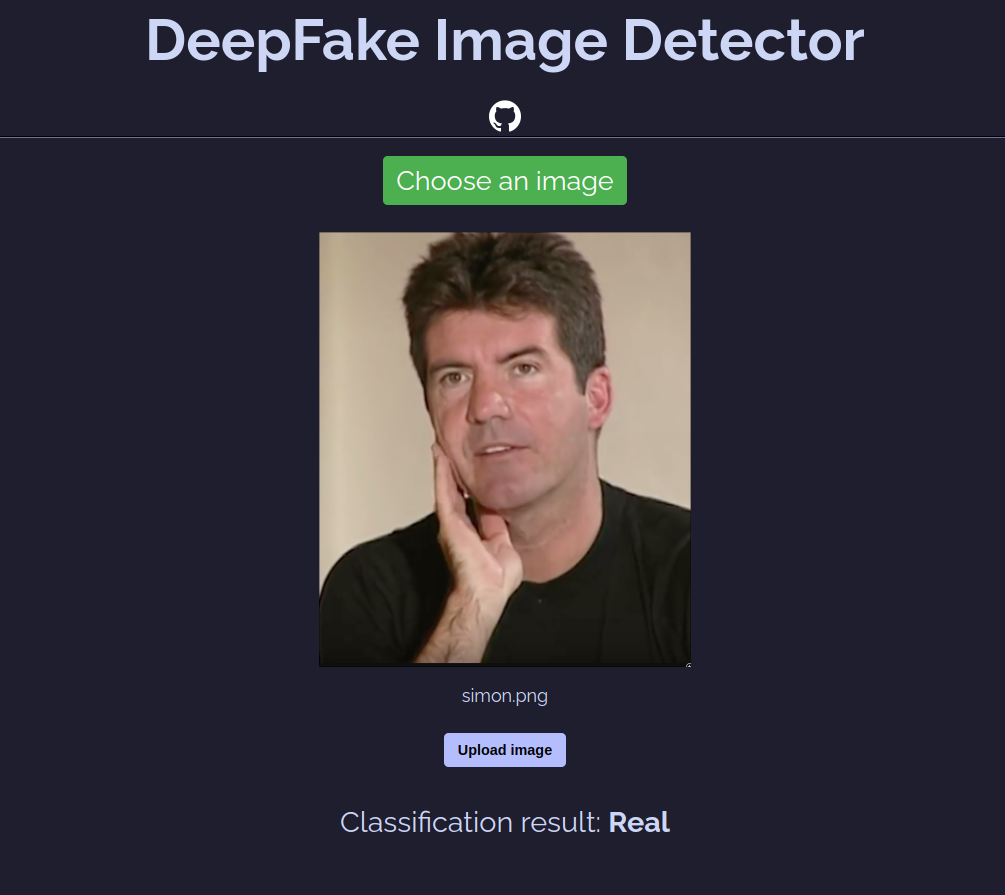
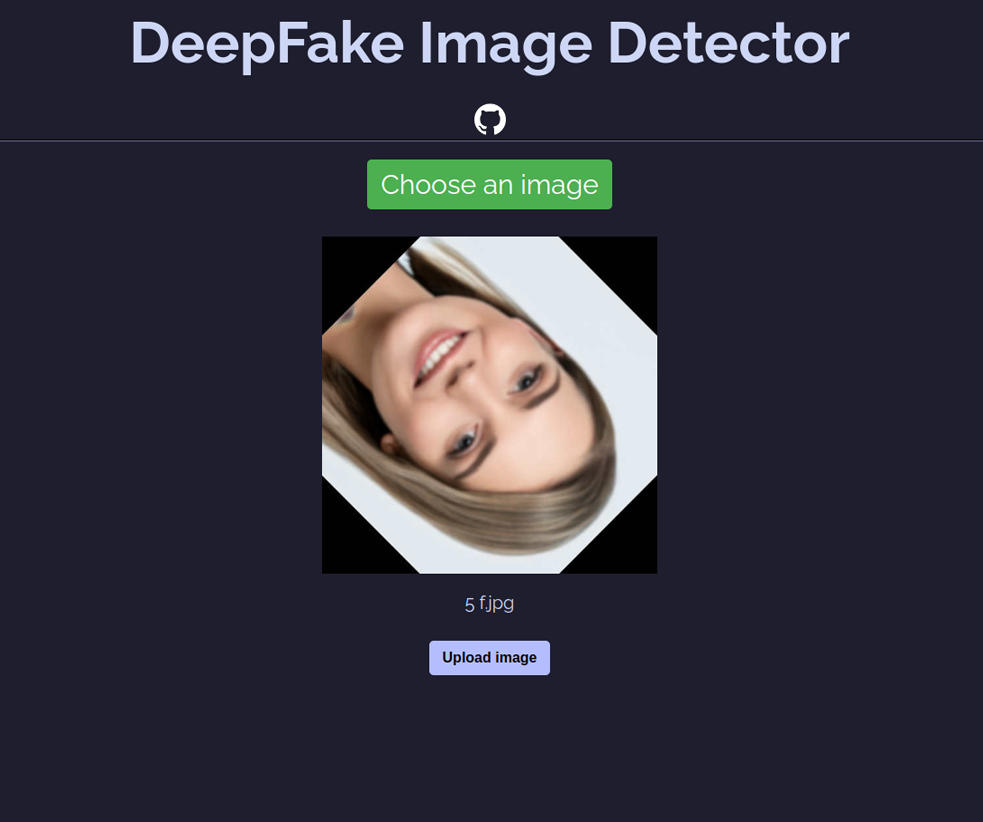
updatev1

Changed region(s): [[0.0, 0.0, 1.0, 0.882], [0.3357, 0.9124, 0.6714, 0.9428]]

diff --git a/chapter/chapter_2.tex b/chapter/chapter_2.tex
@@ -2,7 +2,7 @@
 Deepfakes, which involve sharing facial images without permission, are often carried out without the knowledge or consent of individuals such as celebrities or politicians. At first, swapping of face image was done in the photo of Abraham Lincoln(Badale et al., 2018)\cite{badale2018deep}. Yang, Li \& Lyu (2019)\cite{yang2019exposing} have proposed a model to detect deep fake using head poses inconsistency. Yadav \& Salmani (2019)\cite{yadav2019deepfake} have described the working principle of the deep fake techniques along with swapping of face images in a high precision value.
 
 \section{Deepfake Generation Techniques of Faces}
-StarGAN \cite{choi2018stargan}, proposed by Choi et al., is a method capable of performing imageto-image translations on multiple domains (such as change hair color, change gender,
+StarGAN \cite{choi2018stargan}, proposed by Choi et al., is a method capable of performing image-to-image translations on multiple domains (such as change hair color, change gender,
 etc.) using a single model. Trained on two different types of face datasets—CelebA \cite{7410782}
 containing 40 labels related to facial attributes such as hair color, gender and age, and
 RaFD dataset \cite{cho2019imagetoimage} containing 8 labels corresponding to different types of facial expressions
@@ -18,7 +18,7 @@ StyleGAN. \cite{Giudice_2021}
 \section{Deepfake Detection Techniques}
 HFM images dataset and soft computing neural network models (SFFN) with an effective facial manipulating detection process were presented by Lee et al. (2021)\cite{lee2021detecting}. The SFFN model is capable of identifying fake images by focusing on altered facial landmarks, using only RGB information and no metadata. The method showed improved performance in AUC, with a 3.99\% F1-score and 2.91\% AUC for detecting handcrafted fake facial images, and 93.99\% accuracy for detecting small GANs-generated fake images.
 
-Guo et al. (2021)\cite{guo2021fake} developed an AMTEN for image preprocessing. This component uses a convolution layer to retrieve photo manipulation traces, with weights adjusted during backpropagation for optimization. They also created a false face detector, AMTENnet, by combining AMTEN with a CNN. The manipulation traces from AMTEN are processed through the CNN to develop discriminative characteristics. Tests showed that AMTENnet achieved higher detection accuracy and generalization capabilities, outperforming other methods on the Hybrid Fake Face (HFF) dataset by 7.61\%.
+Guo et al. (2021)\cite{guo2021fake} developed an AMTEN for image preprocessing. This component uses a convolution layer to retrieve photo manipulation traces, with weights adjusted during backpropagation for optimization. They also created a false face detector, AMTENnet, by combining AMTEN with a CNN. The manipulation traces from AMTEN are processed through the CNN to develop discriminative characteristics. Tests showed that AMTENnet achieved higher detection accuracy and generalization capabilities, outperforming other methods on the Hybrid Fake Face (HFF) dataset\cite{AMTEN} by 7.61\%.
 
 Guarnera et al. (2020)\cite{guarnera2020fighting} completed a study on deepfake image analysis using an expectation-maximization technique to extract Convolutional Traces (CTs), a unique fingerprint that can identify if a photo is a deepfake and the GANs architecture that created it. The CT is resistant to attacks and independent of high-level picture concepts. The study found that a simple and fast-to-compute method could outperform more complex ones. By rotating input images to find the most significant direction, performance could be improved. The method achieved an overall classification accuracy of over 98\% on deepfakes from 10 different GAN architectures. It also performed well in a real-world setting, achieving 93\% accuracy on deepfakes created by the FACE application.
 
@@ -28,30 +28,121 @@ J. Yang et al. (2021)\cite{yang2021detecting} developed a method to detect the s
 
 Hsu et al. (2020) \cite{hung2021multi} developed a method to recognize fake images created by advanced GANs. Their approach involves a fake feature network-based paired learning system that can learn mid and high-level false features by combining cross-layer feature representations. They modified a reduced DenseNet into a two-stream network structure that can handle paired data. This network is trained to distinguish between the features of real and fake photos. A classification layer is added to determine if the input image is real or fake. Their system allows for learning of fake features, enabling the detector to recognize fake images created by a new GAN not included in the training phase. The results demonstrated that their method outperformed other techniques in terms of accuracy and recall rates.
 
+\newpage
+\subsection{Deepfake Detection and Reconstruction Challenge Ranking}
+Most researchers participated in the Deepfake Images Detection and Reconstruction
+Challenge. Only seven teams submitted a solution and some of them are reported
+in this paper (only the solutions with classification accuracy values above 60\% and only
+all the teams that actively participated in the ICIAP conference). Table 2.1 summarizes the
+classification accuracy scores of the submitted solutions. The winning team
+was VisionLabs, a team composed of Nikita Koritsky and Aleksandr Parkin, who employed
+an EfficientNet architecture \cite{pmlr-v97-tan19a} (specifically EfficientNet B3) with pre-trained weights on
+ImageNet. During training, various preprocessing such as scaling, JPEG compression from
+45 to 100 with probability 0.5, hue saturation, gray transformation with probability 0.2,
+and many others were applied. To increase the robustness of CNN against various types
+of corruption, this team used rather severe increments, including JPEG compression and
+Gaussian blurring with large kernels. Pre-trained torchvision models were used in the
+experiments and tuned for 15 epochs with the Radam optimizer\cite{liu2021variance}. The learning rate was
+set to 0.001 and the batch size was set to 32. In the inference step, a threshold obtained on
+the validation set was used to binarize the obtained values. An Equal Error Rate (resulting
+in 0.26) was used to calculate the threshold. \cite{jimaging8100263}
+\vspace{1cm}
+\begin{table}[ht]
+\centering
+\begin{tabular}{|c|l|c|}
+\hline
+\textbf{Rank} & \textbf{Team Name} & \textbf{Accuracy (\%)} \\
+\hline
+1 & VisionLabs & 93.61 \\
+2 & DC-GAN (Amped Team) & 90.05 \\
+3 & Team Nirma & 75.38 \\
+4 & AIMH Lab & 72.62 \\
+5 & PRA Lab—Div. Biometria & 63.97 \\
+6 & Team Wolfpack & 40.61 \\
+7 & SolveKaro & 36.85 \\
+\hline
+\end{tabular}
+\caption{Accuracy Rankings}
+\label{tab:accuracy-rankings}
+\end{table} \\\\
+Table 2.2 shows in detail the results obtained by the participants.
+Precision, Recall and F1-score values for each class are shown.
+
+\begin{table}[h]
+    \centering
+    \label{tab:comparison}
+    \begin{tabular}{|l|c|c|c|}
+    \hline
+     & \textbf{Precision} & \textbf{Recall} & \textbf{F1-score} \\ \hline
+    \textbf{VisionLabs} &  &  &  \\ \hline
+    Real & 0.89 & 0.88 & 0.89 \\ 
+    Deepfake & 0.95 & 0.96 & 0.96 \\ 
+    Accuracy & 0.94 & & \\ 
+    Macro avg & 0.92 & 0.92 & 0.92 \\ 
+    Weighted avg & 0.94 & 0.94 & 0.94 \\ \hline
+    \textbf{DC-GAN (Amped Team)} & & & \\ \hline
+    Real & 0.86 & 0.78 & 0.82 \\ 
+    Deepfake & 0.92 & 0.95 & 0.93 \\ 
+    Accuracy & 0.90 & & \\ 
+    Macro avg & 0.89 & 0.87 & 0.88 \\ 
+    Weighted avg & 0.90 & 0.90 & 0.90 \\ \hline
+    \textbf{Team Nirma} & & & \\ \hline
+    Real & 0.55 & 0.80 & 0.65 \\ 
+    Deepfake & 0.90 & 0.74 & 0.81 \\ 
+    Accuracy & 0.75 & & \\ 
+    Macro avg & 0.72 & 0.77 & 0.73 \\ 
+    Weighted avg & 0.80 & 0.75 & 0.76 \\ \hline
+    \textbf{AIMH Lab} & & & \\ \hline
+    Real & 0.52 & 0.49 & 0.51 \\ 
+    Deepfake & 0.80 & 0.82 & 0.81 \\ 
+    Accuracy & 0.73 & & \\ 
+    Macro avg & 0.66 & 0.66 & 0.66 \\ 
+    Weighted avg & 0.72 & 0.73 & 0.72 \\ \hline
+    \textbf{PRA Lab—Div. Biometria} & & & \\ \hline
+    Real & 0.43 & 0.76 & 0.55 \\ 
+    Deepfake & 0.86 & 0.59 & 0.70 \\ 
+    Accuracy & 0.64 & & \\ 
+    Macro avg & 0.64 & 0.68 & 0.62 \\ 
+    Weighted avg & 0.74 & 0.64 & 0.66 \\ \hline
+    \textbf{Team Wolfpack} & & & \\ \hline
+    Real & 0.05 & 0.06 & 0.05 \\ 
+    Deepfake & 0.59 & 0.55 & 0.57 \\ 
+    Accuracy & 0.41 & & \\ 
+    Macro avg & 0.32 & 0.30 & 0.31 \\ 
+    Weighted avg & 0.44 & 0.41 & 0.42 \\ \hline
+    \textbf{SolveKaro} & & & \\ \hline
+    Real & 0.17 & 0.31 & 0.22 \\ 
+    Deepfake & 0.59 & 0.39 & 0.47 \\ 
+    Accuracy & 0.37 & & \\ 
+    Macro avg & 0.38 & 0.35 & 0.34 \\ 
+    Weighted avg & 0.47 & 0.37 & 0.40 \\ \hline
+    \end{tabular}
+    \caption{Comparison of Performance Metrics of Each Team}
+\end{table}
 %  The risks inherent in deepfakes, including defamation of character, potential harm to individuals, and the spread of fake news throughout society, highlight the importance of addressing these challenges.
  
 %  Existing approaches suffer from problems such as inefficiency in deepfake image detection, high error rates, long computation times, and data access inaccuracies.
 %  Our work focuses on improving efficiency through a different approach to using ResNet architecture for deepfake detection.
-There have been many approaches to detect image deepfake. Figure 1 (Heidari et al., 2023) \cite{heidari2023deepfake}  shows some of the advancements in the Image Deepfake techniques.
+% There have been many approaches to detect image deepfake. Figure 1 (Heidari et al., 2023) \cite{heidari2023deepfake}  shows some of the advancements in the Image Deepfake techniques.
 
-\begin{table}
-\caption{Image Deepfake Techniques}
-\begin{tabularx}{\textwidth}{|X|X|X|X|X|}
-  \hline
-  \textbf{Authors} & \textbf{Main Idea} & \textbf{Advantages} & \textbf{Dataset} & \textbf{Method} \\ \hline
-  Zhang Zhao, and Li (2020) \cite{zhang2020novel} & Using a binary classifier trained by a CNN & The achieved accuracy was 97\%, The AUC stood at 97.6\% & Milborrow University of Cape Town dataset & CNN \\ \hline
-  Lee et al. (2021) \cite{lee2021detecting}& Suggesting an approach with an effective end-to-end false face detection pipeline  that can identify fake face pictures. & Obtaining 72.52\% AUC, Obtaining 93.99\% accuracy on difficult low-resolution pictures & HFM dataset & GAN \\ \hline
-  Guo et al. (2021) \cite{guo2021fake}& Providing a preprocessing module named AMTEN for face image forensics & AMTENnet achieves an average accuracy of up to 98.52\%, Achieves desirable preprocessing & HEF dataset & CNN \\ \hline
-  Guarnera et al. (2020) \cite{guarnera2020fighting} & Presenting an expectation-maximization method trained to identify and extract a fingerprint & Obtaining a 93\% accuracy rate, In a real-world scenario, efficacy is demonstrated, High robustness & The FACEAPP, a dataset, and CelebA images & Expectation-maximization + CNN \\ \hline
-  I.-J. Yu et al. (2020) \cite{yu2020manipulation} & Presenting the MCNet to utilize multi-domain spatial, frequency, and compression domain characteristics & High robustness, High accuracy & ALASKA dataset & CNN \\ \hline
-\end{tabularx}
-\end{table}
+% \begin{table}
+% \caption{Image Deepfake Techniques}
+% \begin{tabularx}{\textwidth}{|X|X|X|X|X|}
+%   \hline
+%   \textbf{Authors} & \textbf{Main Idea} & \textbf{Advantages} & \textbf{Dataset} & \textbf{Method} \\ \hline
+%   Zhang Zhao, and Li (2020) \cite{zhang2020novel} & Using a binary classifier trained by a CNN & The achieved accuracy was 97\%, The AUC stood at 97.6\% & Milborrow University of Cape Town dataset & CNN \\ \hline
+%   Lee et al. (2021) \cite{lee2021detecting}& Suggesting an approach with an effective end-to-end false face detection pipeline  that can identify fake face pictures. & Obtaining 72.52\% AUC, Obtaining 93.99\% accuracy on difficult low-resolution pictures & HFM dataset & GAN \\ \hline
+%   Guo et al. (2021) \cite{guo2021fake}& Providing a preprocessing module named AMTEN for face image forensics & AMTENnet achieves an average accuracy of up to 98.52\%, Achieves desirable preprocessing & HEF dataset & CNN \\ \hline
+%   Guarnera et al. (2020) \cite{guarnera2020fighting} & Presenting an expectation-maximization method trained to identify and extract a fingerprint & Obtaining a 93\% accuracy rate, In a real-world scenario, efficacy is demonstrated, High robustness & The FACEAPP, a dataset, and CelebA images & Expectation-maximization + CNN \\ \hline
+%   I.-J. Yu et al. (2020) \cite{yu2020manipulation} & Presenting the MCNet to utilize multi-domain spatial, frequency, and compression domain characteristics & High robustness, High accuracy & ALASKA dataset & CNN \\ \hline
+% \end{tabularx}
+% \end{table}
 
-\pagebreak
-\begin{table}[ht]
-\begin{tabularx}{\textwidth}{|X|X|X|X|X|}\hline
-  J Yang et al. (2021) \cite{yang2021detecting} & Using the image saliency to determine the texture depth and pixel difference between actual and fake facial images.& Detection accuracy is 99.90\% & Faceforensics++ dataset & CNN + simple linear iterative clustering \\ \hline  
+% \pagebreak
+% \begin{table}[ht]
+% \begin{tabularx}{\textwidth}{|X|X|X|X|X|}\hline
+%   J Yang et al. (2021) \cite{yang2021detecting} & Using the image saliency to determine the texture depth and pixel difference between actual and fake facial images.& Detection accuracy is 99.90\% & Faceforensics++ dataset & CNN + simple linear iterative clustering \\ \hline  
 
-  Hsu et al.(2020) \cite{hung2021multi} & Presenting an image detector comprised of an enhanced DenseNet backbone network and Slamese network architecture. & Achieving a modest level of precision and recall & CelebA & Pairwise learning \\ \hline
-\end{tabularx}
-\end{table}
+%   Hsu et al.(2020) \cite{hung2021multi} & Presenting an image detector comprised of an enhanced DenseNet backbone network and Slamese network architecture. & Achieving a modest level of precision and recall & CelebA & Pairwise learning \\ \hline
+% \end{tabularx}
+% \end{table}

diff --git a/chapter/chapter_5.tex b/chapter/chapter_5.tex
@@ -1,4 +1,4 @@
-\chapter{Work Completed}
+\chapter{Result And Discussion}
 	\section{Data Accumulation}
 		We used dataset created during a Deepfake Image Detection and Reconstruction
 		Challenge. Two datasets of real face images were used: CelebA and FFHQ. Various
@@ -71,7 +71,7 @@
 	\begin{itemize}
 		\item \textbf{Number of epochs : 50} \\
 			The number of epochs refers to the number of times the complete training dataset is passed through the network during the training process. Each epoch consists of one forward pass (input to output) and one backward pass (error calculation and weight updates) for all the training samples.
-		\item \textbf{Loss function : Cross-Entropy} \\
+		\item \textbf{Loss function : Cross-Entropy}\cite{mao2023crossentropy} \\
 			Loss function is a method of evaluating how well your algorithm models your dataset. Cross-entropy loss measures the difference between a deep learning classification model's discovered and predicted probability distributions.
 
 			The cross-entropy between two probability distributions, such as q from p, can be stated formally as
@@ -89,7 +89,7 @@
 
 		\item \textbf{Learning rate : 0.001} \\
 			The learning rate is a hyperparameter that determines the step size at which an optimization algorithm.
-		\item \textbf{Optimizer : Adam} \\
+		\item \textbf{Optimizer : Adam} \cite{kingma2017adam}\\
 			An optimizer  is an algorithm used to update the parameters (weights and biases) of a model during training in order to minimize the loss function. 
 			Adam (short for Adaptive Moment Estimation) is a popular optimization algorithm known for its robustness, efficiency, and ease of use. It often converges faster and performs better than traditional optimization algorithms.
 			It adapts the learning rate for each parameter individually based on the past gradients and squared gradients making it well suited for training models.
@@ -117,6 +117,56 @@
 		}
 	\end{figure}
 
+	\clearpage
+	\begin{table}
+		\begin{tabular}{|l|l|l|l|}
+		\hline
+		\textbf{Layer} & \textbf{Layer Type} & \textbf{Output Dimension} & \textbf{No. of Parameters} \\ \hline
+		1 & Input (Convolution 2-D) & (64*128*128) & 1792 \\ \hline
+		2 & Batch Normalization & (64*128*128) & 256 \\      \hline
+		3 & ReLU & (64*128*128) & 0 \\                       \hline
+		4 & Convolution 2-D & (128*128*128) & 3584 \\        \hline
+		5 & Batch Normalization & (128*128*128) & 512 \\     \hline
+		6 & ReLU & (128*128*128) & 0 \\                      \hline
+		7 & MaxPooling & (128*64*64) & 0 \\                  \hline
+		8 & Convolution 2-D & (128*64*64) & 3584 \\          \hline
+		9 & Batch Normalization & (128*64*64) & 512 \\       \hline
+		10 & ReLU & (128*64*64) & 0 \\                       \hline
+		11 & Convolution 2-D & (128*64*64) & 3584 \\         \hline
+		12 & Batch Normalization & (128*64*64) & 512 \\      \hline
+		13 & ReLU & (128*64*64) & 0 \\                       \hline
+		14 & Convolution 2-D & (256*64*64) & 7168 \\         \hline
+		15 & Batch Normalization & (256*64*64) & 1024 \\     \hline
+		16 & ReLU & (128*64*64) & 0 \\                       \hline
+		17 & MaxPooling & (256*32*32) & 0 \\                 \hline
+		18 & Convolution 2-D & (512*32*32) & 14336 \\        \hline
+		19 & Batch Normalization & (512*32*32) & 2048 \\     \hline
+		20 & ReLU & (512*32*32) & 0 \\                       \hline
+		21 & MaxPooling & (512*16*16) & 0 \\                 \hline
+		22 & Convolution 2-D & (512*16*16) & 14336 \\        \hline
+		23 & Batch Normalization & (512*16*16) & 2048 \\     \hline
+		24 & ReLU & (512*16*16) & 0 \\                       \hline
+		25 & Convolution 2-D & (512*16*16) & 14336 \\        \hline
+		26 & Batch Normalization & (512*16*16) & 2048 \\     \hline
+		27 & ReLU & (512*16*16) & 0 \\                       \hline
+		28 & MaxPooling & (512*4*4) & 0 \\                   \hline
+		29 & Flatten & 8192 & 0 \\                           \hline
+		30 & DropOut & 8192 & 0 \\                           \hline
+		31 & Dense & 2 & 16386 \\\hline
+		\end{tabular}
+	\end{table}
+
+	\begin{table}[ht]
+		\begin{tabularx}{1.03\textwidth}{|X|X|}
+			\hline
+			Total Parameters & 16386 \\ \hline
+			Trainable Parameters & 16386 \\  \hline
+			Non-Trainable Parameters & 0 \\ \hline
+			\end{tabularx}
+			\caption{Output Dimensions and Parameter for Each Layer}
+		\end{table}
+
+\clearpage
 	\section{Model Evaluation}
 	\begin{figure}[hbt!]
 		\center{
@@ -169,6 +219,7 @@
 		TN = True Negative,
 		FP = False Positive,
 		FN = False Negative
+		\pagebreak
 		\item Reciever Operating Characteristic (ROC) Curve
 			\begin{figure}[hbt!]
 				\center{
@@ -201,13 +252,27 @@
 
 \begin{figure}[hbt!]
 	\center{
-		\includegraphics[width=0.66\textwidth]{./img/UI1.png}
-		\caption{Demonstration of model detecting real image}
-	}
+		\includegraphics[width=0.66\textwidth]{./img/UI0.png}
+		\caption{Home Page} }
 \end{figure}
+
 \begin{figure}[hbt!]
 	\center{
-		\includegraphics[width=0.66\textwidth]{./img/UI2.jpg}
-		\caption{Demonstration of model detecting fake image}
+		\includegraphics[width=0.66\textwidth]{./img/UI3.png}
+		\caption{Browse Image}
+	}
+\end{figure}
+
+\begin{figure}[hbt!]
+	\center{
+		\includegraphics[width=0.66\textwidth]{./img/UI1.png}
+		\caption{Preview Image}
+	}
+\end{figure}
+
+\begin{figure}[hbt!]
+	\center{
+		\includegraphics[width=0.66\textwidth]{./img/UI2.png}
+		\caption{Demonstration of Model Classifying Image}
 	}
 \end{figure}

diff --git a/chapter/chapter_1.tex b/chapter/chapter_1.tex
@@ -13,7 +13,7 @@
 
 
     \section{Problem Statement}
-        As AI technology advances, deepfake videos and images have become increasingly prevalent, with both positive and negative impacts. While they offer entertainment value, they also pose serious risks, including the misuse of images for fraudulent activities and online harassment. Recognizing the detrimental effects of this technology, many efforts are underway to develop reliable methods for detecting deepfake images and videos. Notably, "The Face Deepfake Detection Challenge" \cite{jimaging8100263} has gathered our attention, with the top-performing team (VisionLabs) achieving an accuracy of 93.61\% on classifying deepfaked and real images. Our main objective is to build upon this progress and enhance the overall detection accuracy by a few percentage points.
+        As AI technology advances, deepfake videos and images have become increasingly prevalent, with both positive and negative impacts. While they offer entertainment value, they also pose serious risks, including the misuse of images for fraudulent activities and online harassment. Recognizing the detrimental effects of this technology, many efforts are underway to develop reliable methods for detecting deepfake images and videos. Notably, "The Face Deepfake Detection Challenge" (21st International Conference on Image Analysis and Processing) \cite{jimaging8100263} has gathered our attention, with the top-performing team (VisionLabs) achieving an accuracy of 93.61\% on classifying deepfaked and real images. Our main objective is to build upon this progress and enhance the overall detection accuracy by a few percentage points.
 
     \section{Objective}
         The main aim of this project is 

diff --git a/main.tex b/main.tex
@@ -4,6 +4,7 @@
 \usepackage{graphicx}
 \usepackage{tabularx}
 \usepackage{subcaption}
+\usepackage{multirow}
 \usepackage{amsmath,amssymb,amsfonts,bbm}
 \usepackage[hidelinks]{hyperref}
 \usepackage{cite}
@@ -58,7 +59,7 @@
   \include{chapter/chapter_3}
   \include{chapter/chapter_4}
   \include{chapter/chapter_5}
-  \include{chapter/chapter_6}
+  % \include{chapter/chapter_6}
   \newpage
   \bibliographystyle{unsrt}
   \bibliography{references}

diff --git a/chapter/abstract.tex b/chapter/abstract.tex
@@ -108,6 +108,7 @@ The rise of deepfake technology, powered by advancements in deep learning, has b
 		RaFT                   & Radboud Faces Database                							\\
 		HFM 									 & Handcrafted Face Manipulation           						\\
 		SFFM									 & Shallow-FakeFaceNet																\\
+		ICIAP									 & International Conference on Image Analysis and Processing \\
 	\end{tabular}
 \end{table}
 \pagebreak
